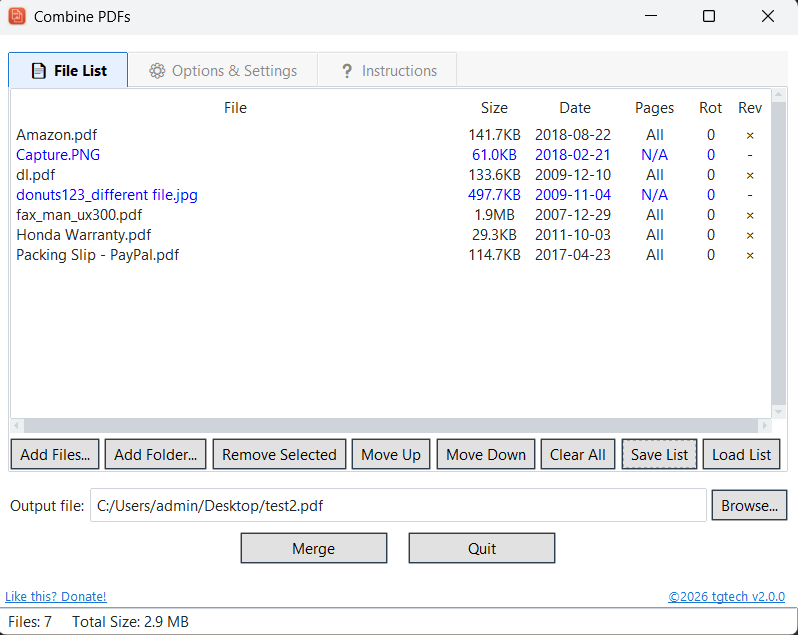
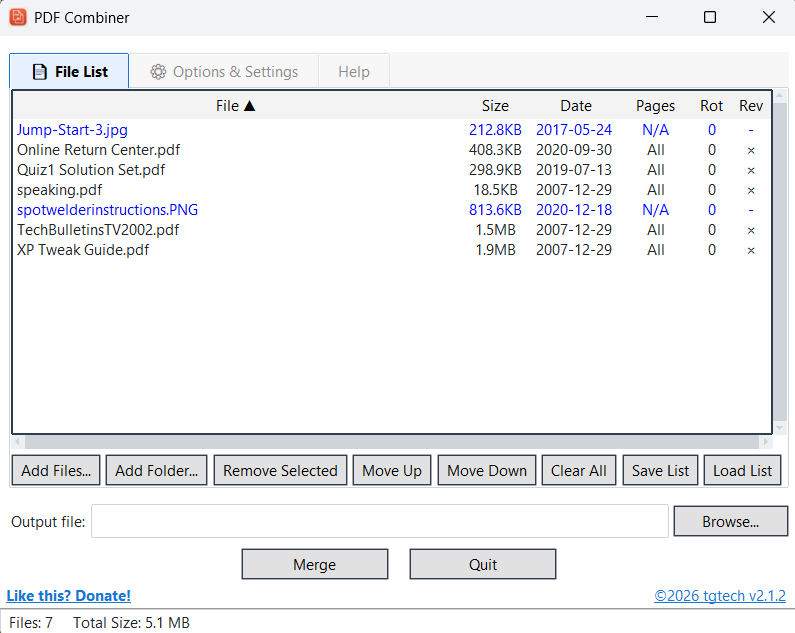
Doc updates

Changed region(s): [[0.0, 0.0, 1.0, 1.0], [0.8755, 0.0, 0.9057, 0.06], [0.9962, 0.0, 1.0, 0.03]]

diff --git a/README.md b/README.md
@@ -1,6 +1,6 @@
 # PDFCombiner: Merge Multiple PDF Documents into a Single File
 
-PDFCombiner is a free, standalone Windows 10/11 application for merging two or more PDF files into a single document. It offers powerful features such as selective page extraction, rotation, bookmarks, encryption, and more. No data is ever uploaded or downloaded — all processing happens entirely on your device to protect your privacy. The app was created out of frustration with the lack of simple, free, ad‑free, privacy‑focused PDF combining tools.
+PDFCombiner is a free, standalone Windows 10/11 application for merging two or more PDF files and/or images into a single PDF document. It offers powerful features such as selective page extraction, rotation, bookmarks, encryption, and more. No data is ever uploaded or downloaded — all processing happens entirely on your device to protect your privacy. The app was created out of frustration with the lack of simple, free, ad‑free, privacy‑focused PDF combining tools.
 
 <p align="left">
   <img src="images/splashscreen_small.png" width="400">
@@ -14,7 +14,7 @@ PDFCombiner is a free, standalone Windows 10/11 application for merging two or m
 </p>
 
 # Windows Installation and Use
-Click the 'Releases' link on this page then click the PDFCombinerInstaller_X.Y.Z.exe file to download it.
+Click the 'Releases' link on this page then click the PDFCombinerInstaller_X.Y.Z.exe file to download it. Double click the installer to install the app.
 You may get warnings since it is not digitally signed. You can compare the SHA hash of the exe to the one shown in the release notes to ensure the exe has not been tampered with.
 
 To bypass the Windows warning if it appears when trying to install/run, click 'More info', then 'Run anyway' as shown below (pics are from Win11, Win10 may be a little different):
